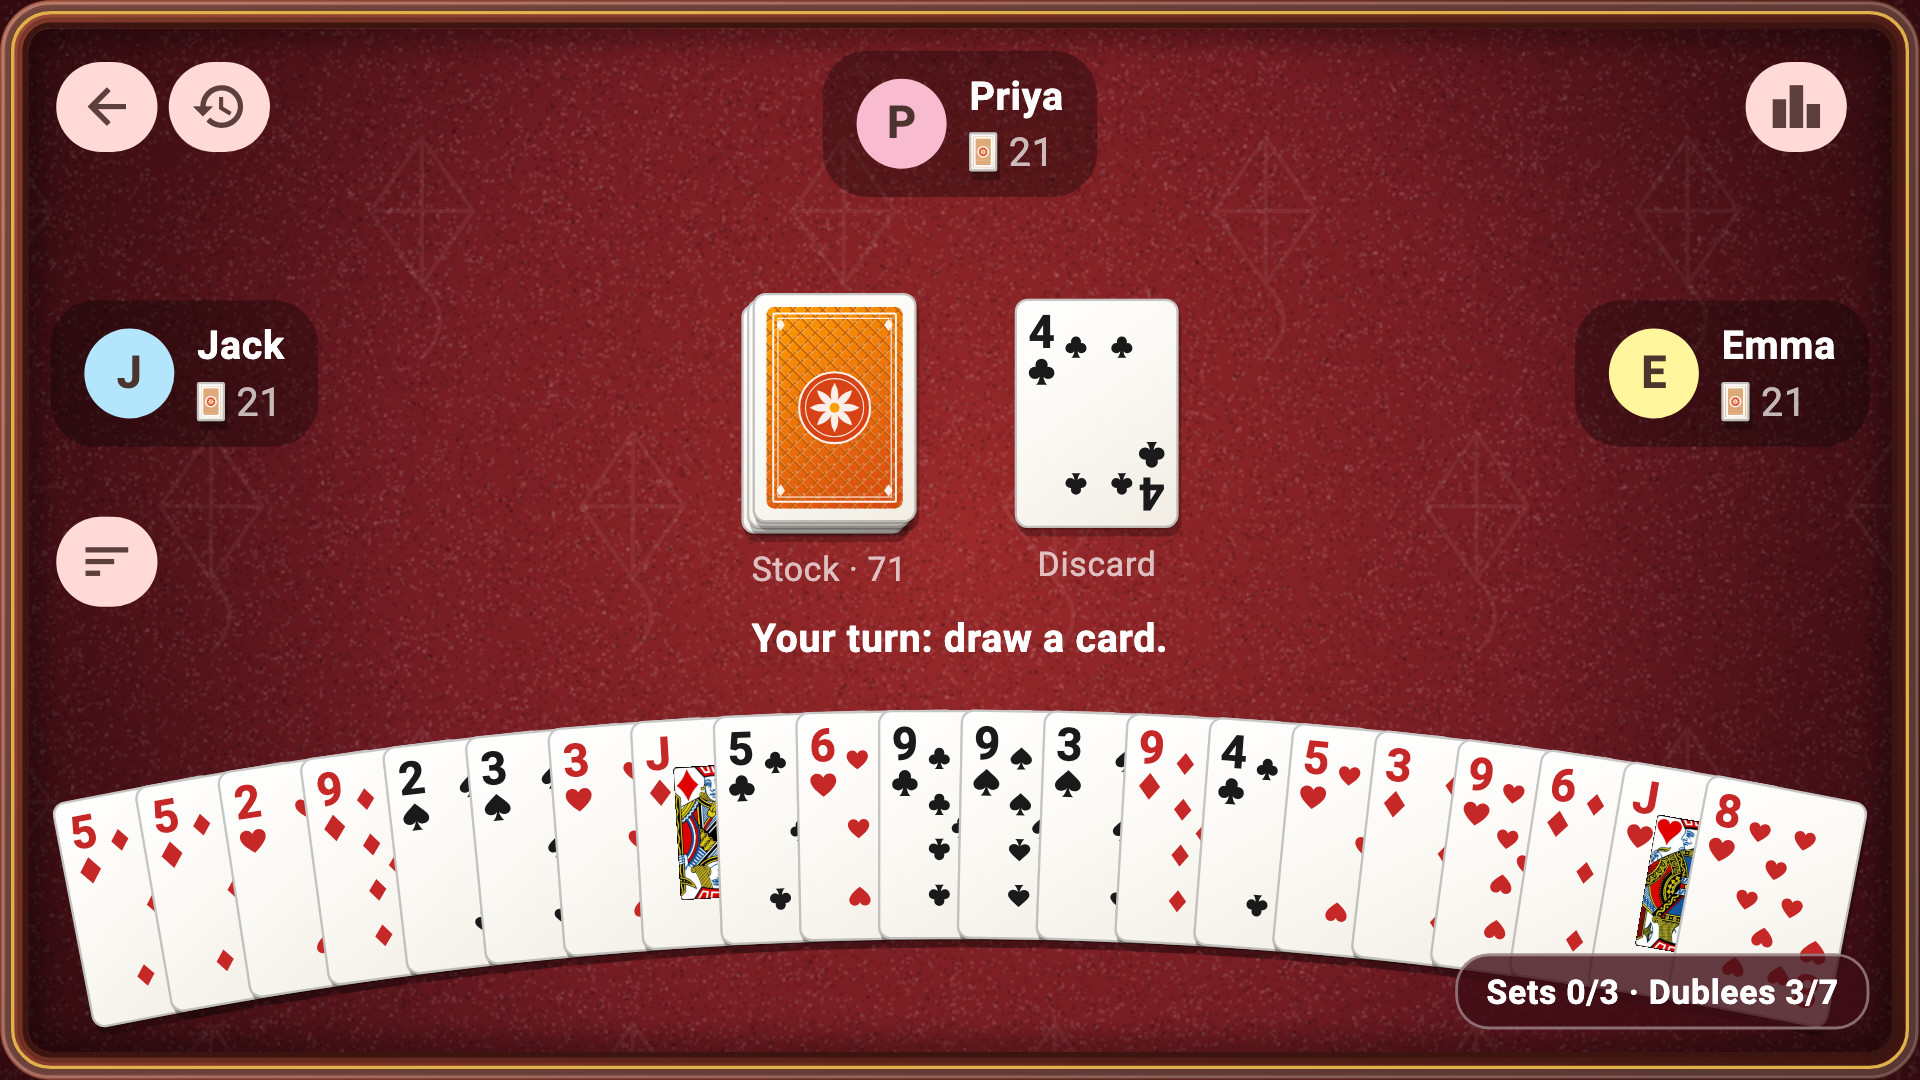
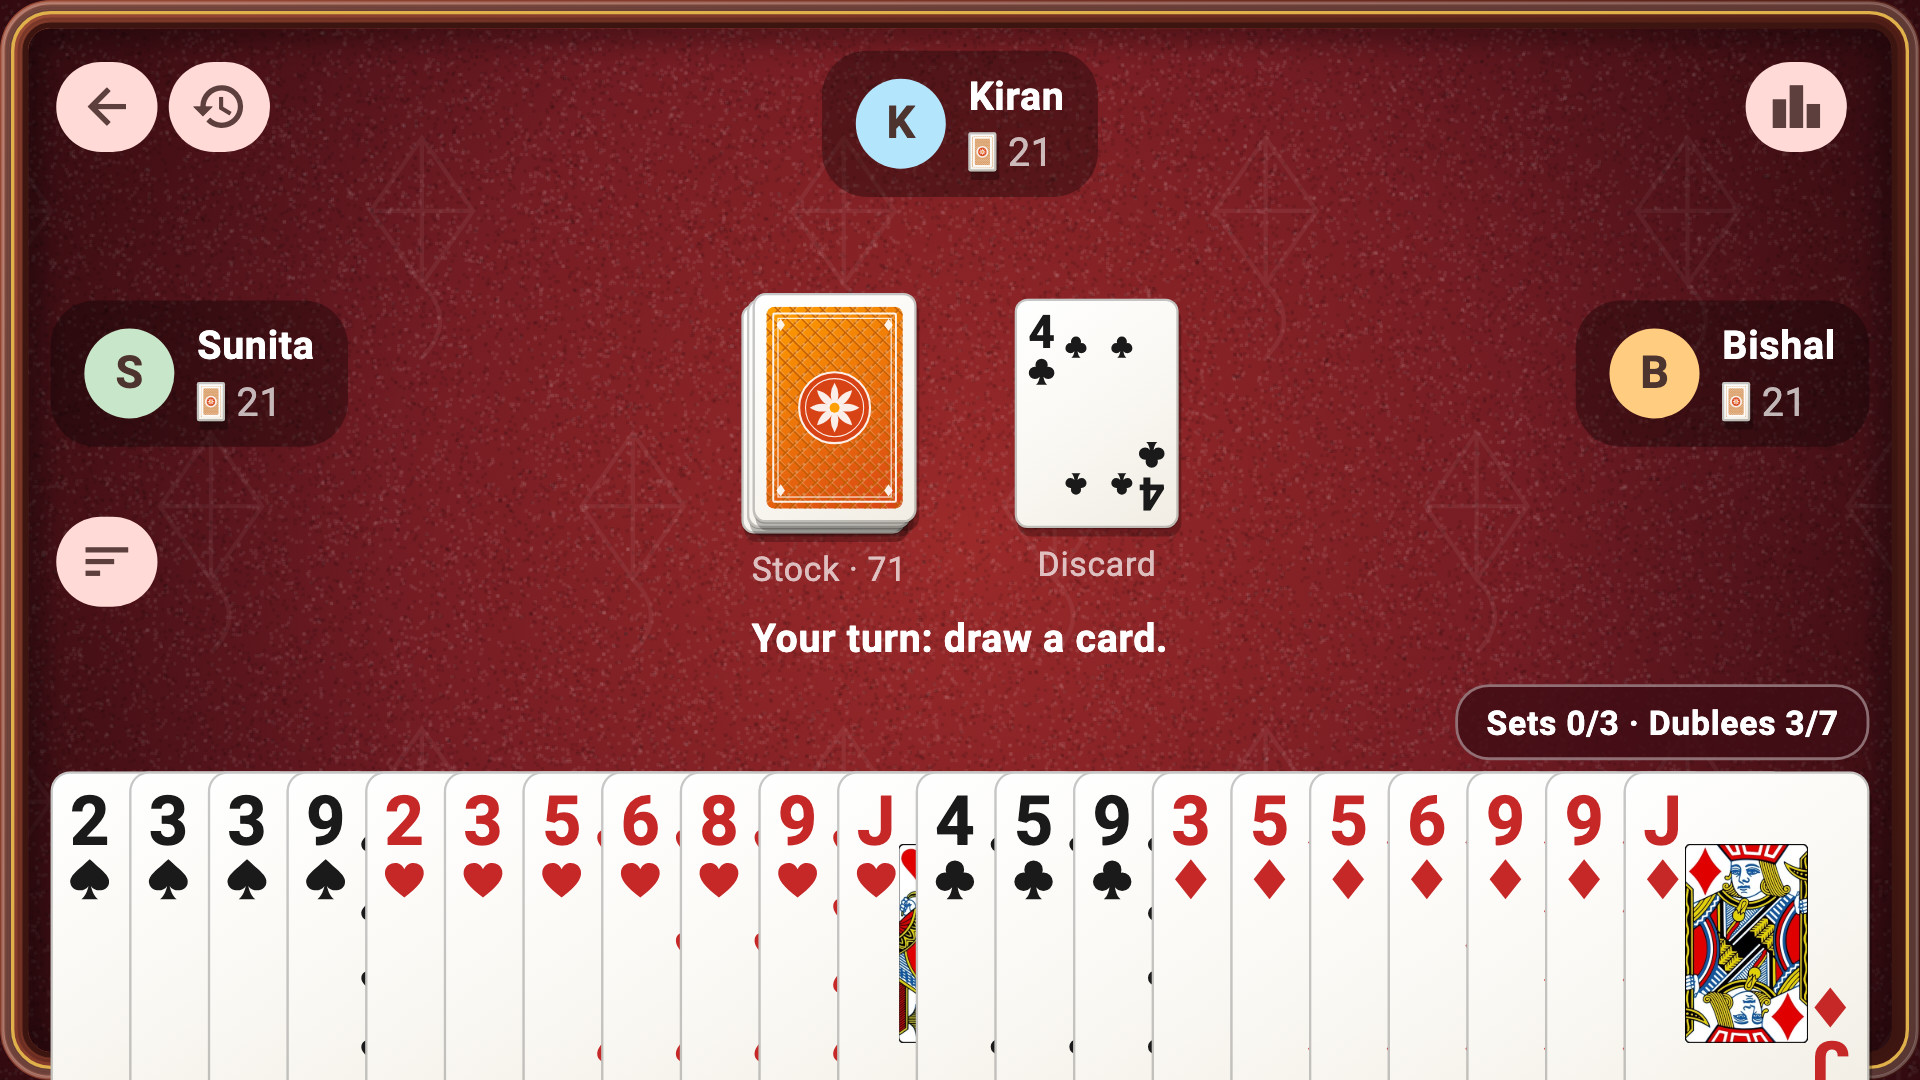
Regenerate the store screenshots for the stake tables and game modes
The setup screenshot now shows the single-player stake table picker with
a few tables unlocked, Kidnap chosen and the House rules button, in place
of the old bot dialog. The others are redrawn from the current screens.

diff --git a/tool/render_screenshots.dart b/tool/render_screenshots.dart
@@ -187,7 +187,11 @@ void main() {
       saved: {
         'settings.tableTheme': 'midnight',
         'lobby.playerCount': 4,
-        'lobby.botDifficulty': 'hard',
+        'lobby.stake': 10,
+        'rules.mode': 'kidnap',
+        'coins.balance': 18450,
+        // The first three tables unlocked, the fourth on its way.
+        'stakes.gamesPlayed': '{"5":50,"10":50,"25":12}',
       },
     );
     await tester.pumpAndSettle();

diff --git a/docs/store/listing.md b/docs/store/listing.md
@@ -71,9 +71,9 @@ can't be cashed out.
 | Feature graphic | `docs/store/feature-graphic.jpg` | 1024 × 500 |
 | Phone screenshots | `docs/store/screenshots/1-home.jpg` … `7-pass.jpg` | 1920 × 1080 |
 
-Screenshots, in order: the home screen, a full table, the Dashain table, the
-game setup, winning a round, the scoreboard, and passing the device between
-friends.
+Screenshots, in order: the home screen, a full table, the Dashain table,
+choosing a stake table and mode, winning a round, the scoreboard, and passing
+the device between friends.
 
 ## Content rating notes
 
